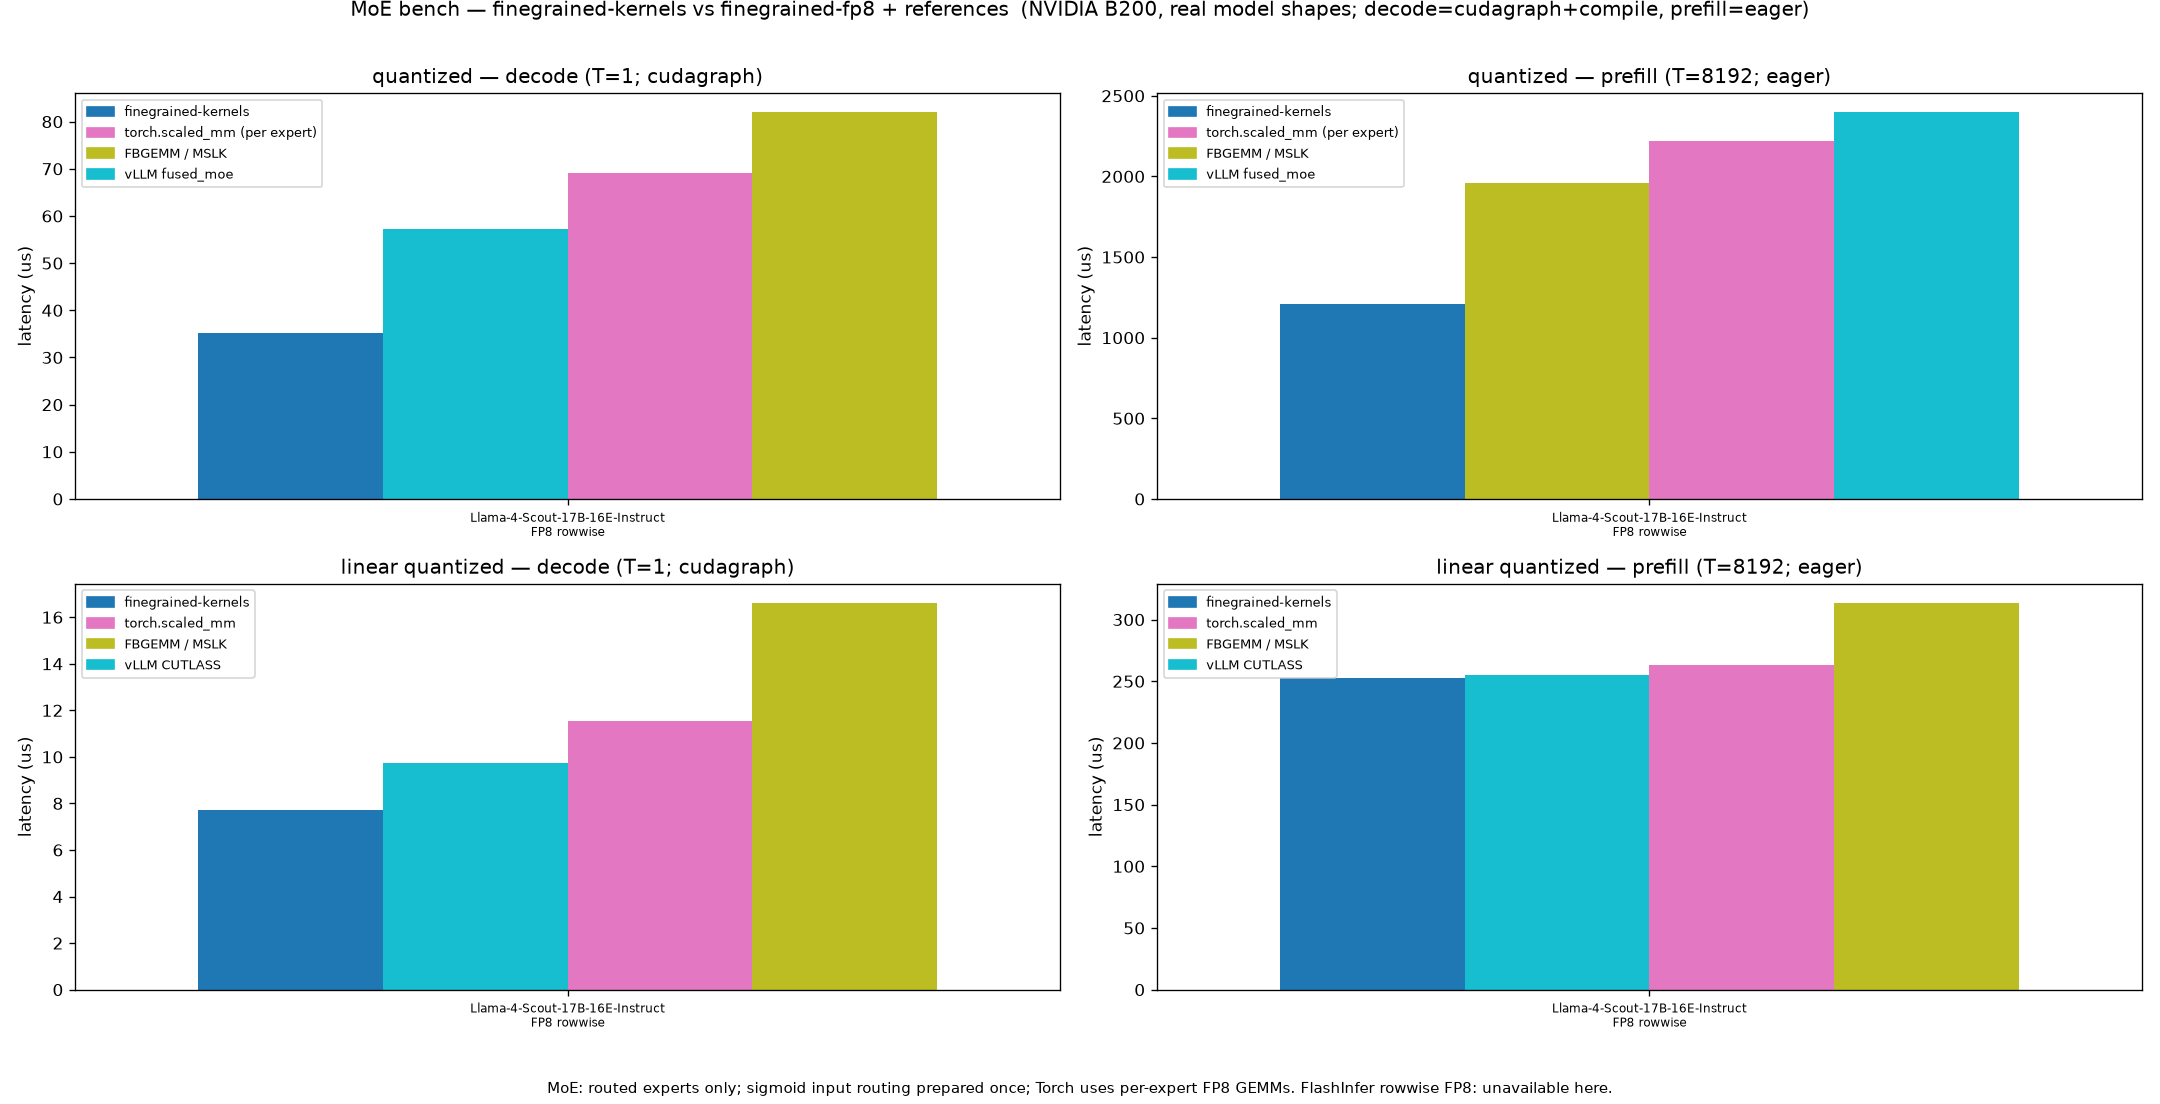
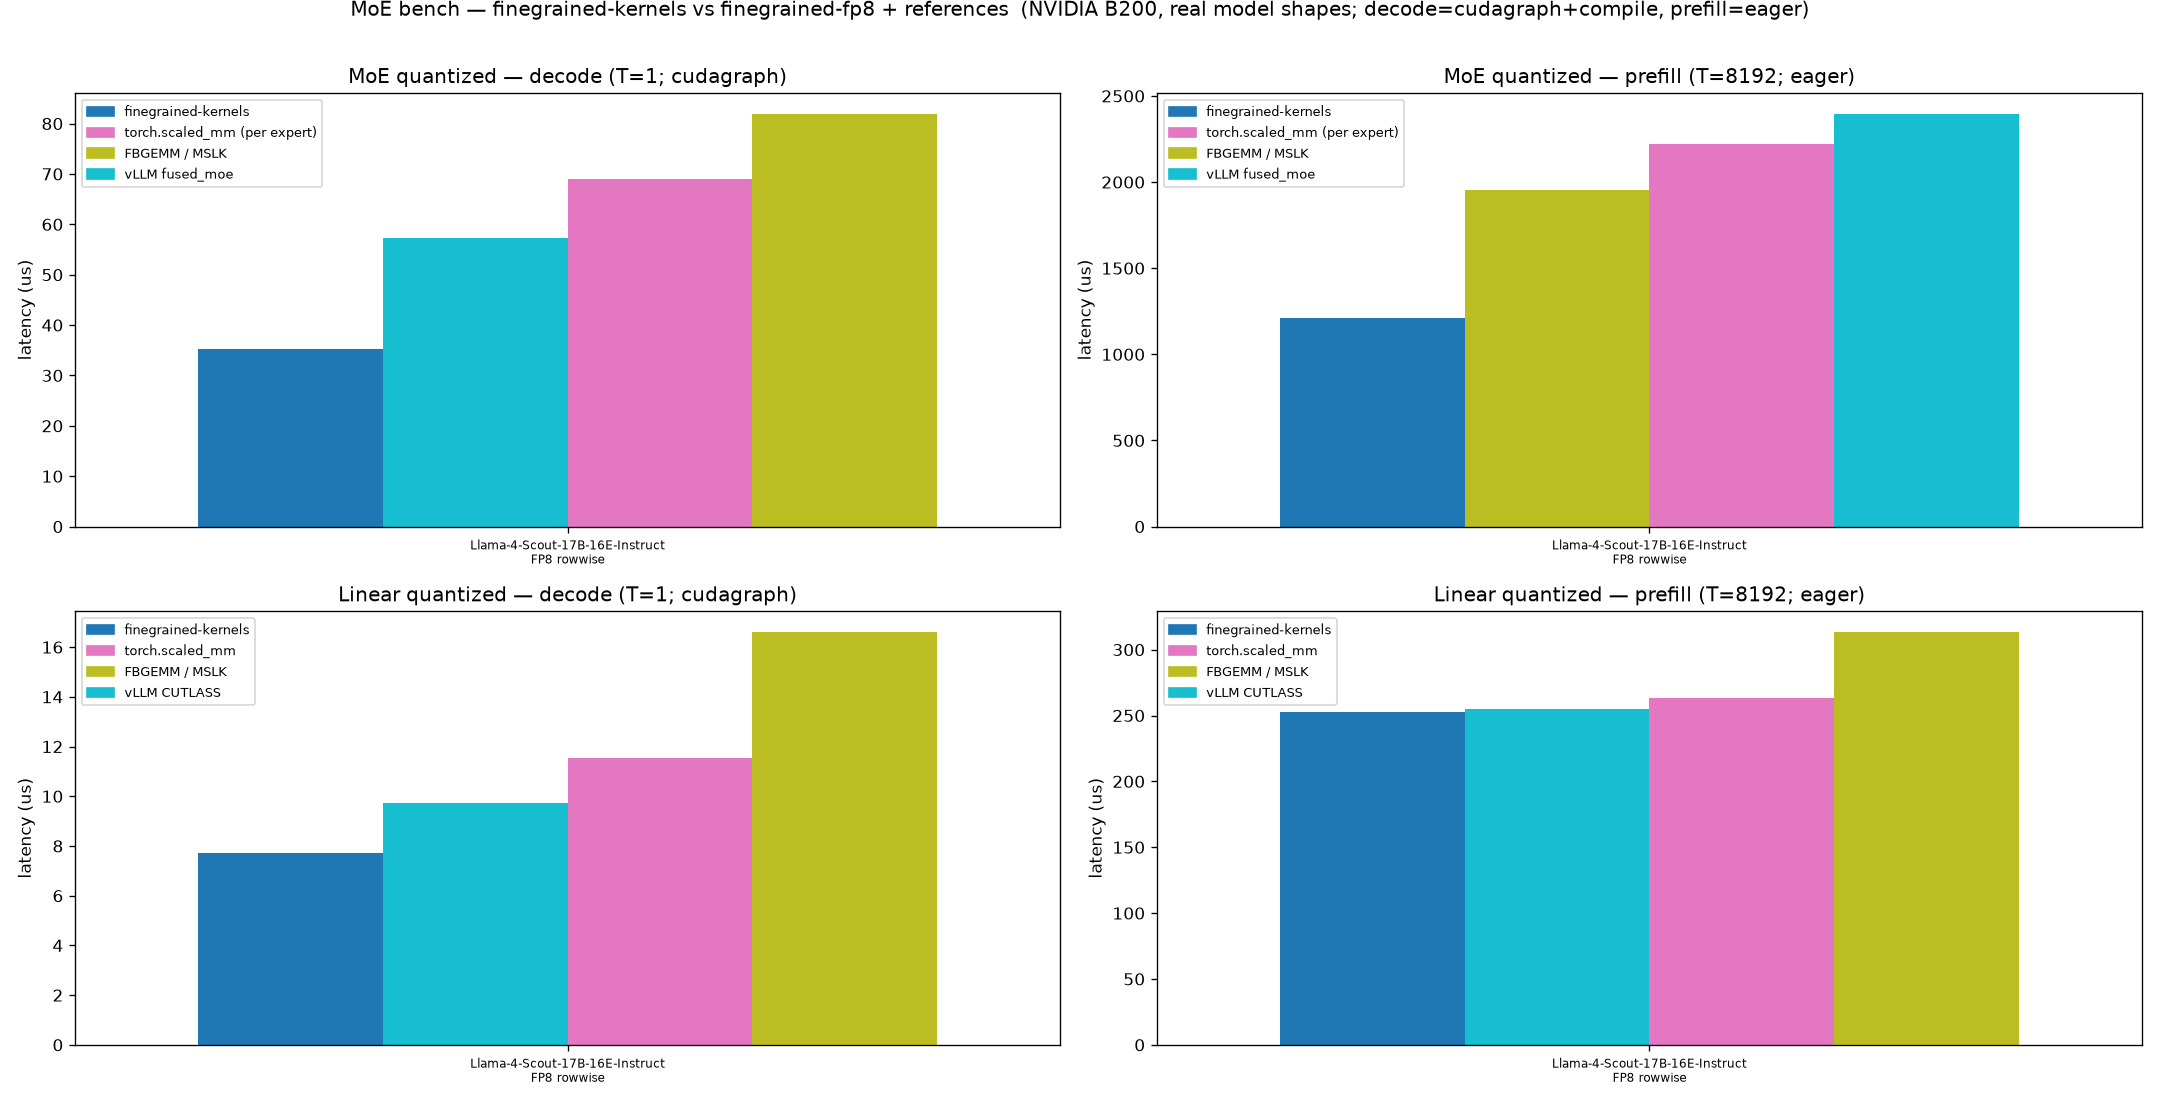
Clarify MoE and linear benchmark plot labels

diff --git a/finegrained-kernels/bench/bench_moe.py b/finegrained-kernels/bench/bench_moe.py
@@ -1939,6 +1939,8 @@ import matplotlib.pyplot as plt  # noqa: E402
 # has only the two-GEMM shape, so that is what it contributes. No fused/unfused split in the
 # figure — it is an internal distinction of ours that most baselines do not have.
 ROW_ORDER = ["quantized", "linear quantized", "unquantized"]
+ROW_LABELS = {"quantized": "MoE quantized", "linear quantized": "Linear quantized",
+              "unquantized": "MoE unquantized (BF16)"}
 present_rows = [r for r in ROW_ORDER if any(rr == r for rr, *_ in rows)]
 
 # bars must be PHYSICALLY identical across every subplot of every figure: one slot
@@ -2067,7 +2069,7 @@ for ri, row in enumerate(present_rows):
         tok = DECODE_TOKENS if regime == "decode" else PREFILL_TOKENS
         mode_note = ("solid=cudagraph, hatch=compile-if-faster" if overlay_drawn
                      else (solid_mode if not overlay_mode else "cudagraph"))
-        ax.set_title(f"{row} — {regime} (T={tok}; {mode_note})")
+        ax.set_title(f"{ROW_LABELS[row]} — {regime} (T={tok}; {mode_note})")
         # legend: impl colors + the mode/marker key (compile entry only if any
         # panel bar actually had a compile win to show)
         handles = [mpatches.Patch(color=IMPL_COLORS[i], label=_impl_label(i, regime))
